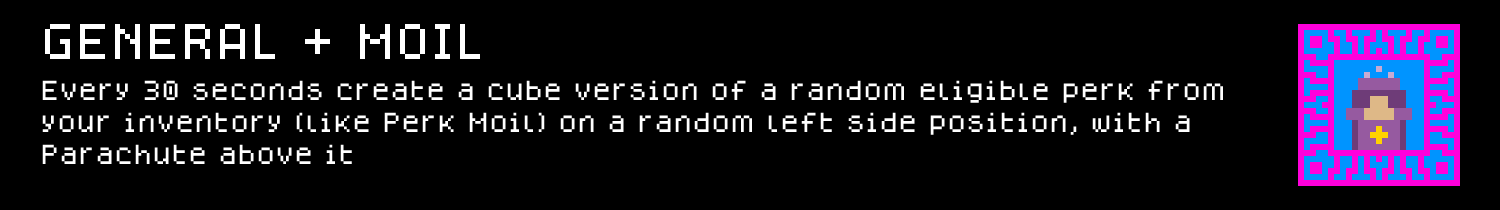
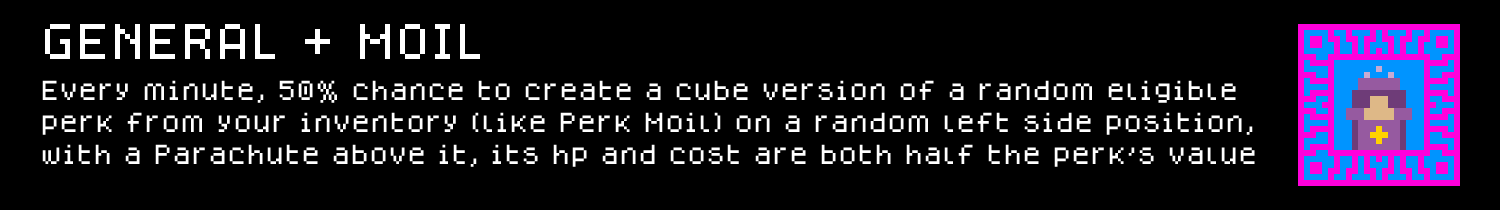
General Cube/Perk Fixes

Changed region(s): [[0.0307, 0.6857, 0.8587, 0.8], [0.092, 0.3714, 0.828, 0.4857], [0.0307, 0.5143, 0.828, 0.6286]]

diff --git a/.claude/skills/cube-chaos-scripting/SKILL.md b/.claude/skills/cube-chaos-scripting/SKILL.md
@@ -134,6 +134,40 @@ Guard every such call site with a "has at least one ability" filter: `IsLarger A
 - Factions are numbered `0` = neutral, `1` = one player, `2` = the other (confirmed via dozens of `SetFaction DoubleConstant 1`/`2`/`0` calls, e.g. `Main/Perks.c.txt`'s `Both SetFaction DoubleConstant 1 ...` / `Both SetFaction DoubleConstant 2 ...` pair for "give a copy to each side"). To affect "everyone's hand" (both players) rather than one side relative to the caster, loop `EveryCubeInHandOfFactionWhich DoubleConstant 1 ...` and `EveryCubeInHandOfFactionWhich DoubleConstant 2 ...` explicitly — simpler and more literal than `FactionOfThis`/`InvertedFaction FactionOfThis`, which only get you "mine" vs "the opponent's" relative to the current Caster.
 - `CreateCubeOnPosition`/`CopyWithAction` on a bare `CubeConstant X` **defaults to allied-to-Caster**, not neutral — confirmed by `Characters/Species/Shadow.c.txt`'s `Shadow_Hive` perk, which creates `CubeConstant Solid_Shadow_Hive` with no `SetFaction` call at all and its own `Description:` calls the result "an allied Solid_Shadow_Hive". The base game explicitly wraps in `NeutralCopy CUBE` (a different function) or appends `SetFaction DoubleConstant 0` when a spawned cube needs to be neutral instead. Don't assume a freshly created cube inherits the faction of whatever triggered its creation (e.g. `Victim`'s faction) — it won't, unless you explicitly `SetFaction FactionOfCube Victim` (or similar) yourself.
 
+## Modifying a cube you just created: `CopyWithAction` at creation, never re-acquire it by position
+
+**The single most common real bug shape in this repo.** To create a cube and give it something, it is tempting to create it and then look up whatever is now standing on that square:
+
+```
+Both CreateCubeOnPosition CubeConstant Rocket PositionInDirectionFromPosition North PositionOfThis
+ If CubeExists CubeOfPosition PositionInDirectionFromPosition North PositionOfThis
+  TargetCube CubeOfPosition PositionInDirectionFromPosition North PositionOfThis
+   GainAbility HomingX 15
+```
+
+This is wrong, and it fails **silently and intermittently** — it looks correct in every test where the square happened to be free. `CreateCubeOnPosition` on an occupied square does not create anything and does not abort the surrounding chain; the following `CubeExists` check then passes against the **pre-existing blocker**, and the grant lands on that unrelated cube. User-reported symptom, found on `Rocket_Silo` and then `Airport`: "the cube blocking the spawn position is getting homing." A `Burrowing`/`AiEmptyNorth` cube is *more* exposed to this, not less — it spends its life adjacent to whatever it failed to burrow through.
+
+**The fix is `CreateCubeOnPosition CopyWithAction CUBE ACTION POSITION`** — the action applies to the copy *before* placement, so it can only ever touch the cube being created, and a blocked creation grants nothing to nobody:
+
+```
+CreateCubeOnPosition CopyWithAction CubeConstant Bomb
+ Both RemoveAbilityWithName Flying RemoveAbilityWithName ChargeEveryX
+ PositionInDirectionFromPosition South PositionOfThis
+```
+
+Note the surrounding `Both` disappears — there is no longer a second action to sequence. This is overwhelmingly the base game's own idiom (71+ `CreateCubeOnPosition CopyWithAction` sites across every base file; the risky re-acquire shape appears essentially once, at `Characters/Classes/PerkFragments.c.txt:924`). **A guard-first shape (`If Not CubeExists <pos>` before creating) has zero occurrences in the base game** — don't invent it; it also doesn't help, since the interesting failure is "creation silently no-ops," not "we forgot to check."
+
+**The one legitimate reason to re-acquire by position: another perk may have replaced your cube after creation.** `Arms_Race`-style perks (`AfterACubeIsCreated ... Exile` + create a different cube at `PositionOfCube Victim`) swap the cube out between your `CreateCubeOnPosition` and the next line, so a chain that must affect the *replacement* has to look it up by position. The tell is branching on names the created cube can't possibly have — the General mod's `Artillery` creates `CubeConstant Shell` yet branches on `CubeHasName Target Bomb`/`Rocket`, which are reachable only via that swap. Converting such a site to `CopyWithAction` silently turns those branches into dead code. Guard it with a name check instead of converting it:
+
+```
+TargetCube CubeOfPosition <pos>
+ If Or Or CubeHasName Target Shell CubeHasName Target Bomb CubeHasName Target Rocket
+  Both GainAbility Arcing DoubleConstant 180
+   ...
+```
+
+So: **`CopyWithAction` by default; re-acquire only when a post-creation swap is genuinely being handled, and then always name-guarded.** When auditing a mod for this, grep for `TargetCube CubeOfPosition` and `TargetCube CubeInDirectionFromCube` — every hit is either a bug or a deliberate swap-handler, and the two are easy to tell apart by whether the chain branches on foreign cube names.
+
 ## Duplicating a specific live cube (e.g. pulled from hand) without consuming the original
 
 `CreateCubeOnPosition CUBE POSITION` on a CUBE expression that's a **freshly-instantiated template** (`CubeConstant X`, or a value already built via `SetStorage CopyWithAction CubeConstant X ...` and reused across multiple positions) needs no special handling — every real example of that shape just calls `CreateCubeOnPosition Storage <position>` directly, since `Storage` there holds a template value, not a specific board/hand object.
@@ -315,6 +349,38 @@ Ability: BeforeThisMoves IfElse HasAbilityWithName Caster ChargeEveryX
    <effect when fleeing is about to be blocked>
 ```
 Combining both patterns, a full "patrol until blocked, then reverse" cube needs only ONE reversal `Ability:` instead of two (real before/after comparison: General mod's `Bomber` cube originally used the two-`AfterThisMoves`-blocks shape above keyed on enemy-leader detection, then the `EventDirection`-based single-trigger shape, then this ability-state-keyed shape once the `EventDirection`/`Backwards` gap surfaced in actual play — see `GameData/General/General_Cubes.c.txt`).
+
+## Making an ability propagate to created cubes: the base-game `Inheritable` modifier
+
+For "cubes created by this also get ability X (recursively)," don't hand-roll an `AfterThisCreates TargetCube Victim GainAbility X` grant — the base game already has a reusable modifier, `Inheritable` (`Base_Core/1Compounds.c.txt:567`, `NORANDOM`), whose tooltip (`Base_Core/ToolTipText.c.txt:73`) reads *"Cube created/added to a players hand by this also gain this ability"*:
+```
+COMPOUND: ABILITY
+Inheritable
+AfterThisCreates If Not IsPlaced TargetCube Victim GainThisAbility
+ExtraTrigger: BeforeThisAddsACubeToHand TargetCube Victim GainThisAbility
+NORANDOM
+End
+```
+
+How it actually works — and the non-obvious parts that bit during the General mod's `General-Remnant` rewrite:
+
+- **It's attached via `ExtraTrigger: Inheritable` placed on an ability line inside a `CUBE:` or `COMPOUND: ABILITY` definition — a *definition-time* composition, NOT something you dynamically bolt onto an existing ability at grant time.** Real base-game usage: `Main/CubeUpgrades.c.txt`'s `BurningDamage` (`AfterThisDealsDamage ... GainAbility Burning` then `ExtraTrigger: Inheritable`), and cube ability lines in `Main/3GeneralCubes.c.txt` (`ExtraTrigger: Inheritable` right after the `Ability:` it modifies). The convention is to also append `, Inheritable` to that ability's own `Text:`.
+- **`GainThisAbility` propagates the *whole* ability the `ExtraTrigger: Inheritable` is part of — recursively** (the created cube gets the full compound, including its own `Inheritable`, so *its* creations inherit too), but **only to non-placed cubes** (`If Not IsPlaced`) plus cubes added to hand. So it fires for cubes *spawned by* the holder, not for cubes the player hand-places.
+- **Granting `Inheritable` standalone (`GainAbility Inheritable`) does nothing useful** — its `GainThisAbility` would only re-propagate `Inheritable` itself, carrying no actual effect. To make some effect (e.g. `StrengthX`) inheritable you must define your *own* compound that bundles the effect body **and** `ExtraTrigger: Inheritable`, then grant/reference that compound.
+- **A bare passive stat ability works fine as that compound's body** — confirmed by load-testing `StrengthX 1` as the body line of a mod compound under `ExtraTrigger: Inheritable` (parsed clean, no `CANT READ`). This matters because a passive stat is exactly what you want the *holder itself* to benefit from: the holder gets the stat via the body, and the whole compound cascades to its creations via the ExtraTrigger. Real usage, General mod's `General_Inherited_Strength` (`GameData/General/General_Synergies.c.txt`), granted to placed allies by the `General-Remnant` synergy (`AfterACubeIsCreated If And IsAllyToCaster Victim IsPlaced → TargetCube Victim GainAbility General_Inherited_Strength`) so the placed ally deals +1 and every cube in its creation tree inherits +1:
+```
+COMPOUND: ABILITY
+General_Inherited_Strength
+StrengthX 1
+ExtraTrigger: Inheritable
+Text: \C255 38 0 Strength 1 \CN , Inheritable End
+NO_DUPLICATES
+NORANDOM
+End
+```
+- **The mod compound must be defined earlier in the same file than the perk/cube that references it** (the same single-pass ordering constraint documented in the gotchas above) — `General_Inherited_Strength` sits at the top of `General_Synergies.c.txt`, before the first perk. Defining it in the same file as its only user also sidesteps the cross-*package*/cross-*file* load-order trap entirely.
+- **Semantic contrast to weigh before choosing this over a hand-rolled grant:** `Inheritable` makes the *holder itself* carry the effect and cascades it *recursively* down the whole creation tree. A plain `GainAbilityText AfterThisCreates TargetCube Victim GainAbility X` grant instead leaves the holder unaffected and only buffs its *direct* creations (non-recursive). These are genuinely different mechanics — pick per intent, and surface the difference to the user when a request ("cubes created by this gain X") is ambiguous about whether the holder benefits or whether it should cascade.
+- **Inverse/opt-out exists:** `TheInheritor` (`Main/1Compounds.c.txt:72`, `Text: \C255 0 220 Inheritor: \CN Cubes created by this cube won't inherit abilities`) is a cube-side ability that blocks inheritance from happening on that cube's creations.
 
 ## Preserving a dynamically-granted ability through a "replace this cube with a different cube" cascade
 
